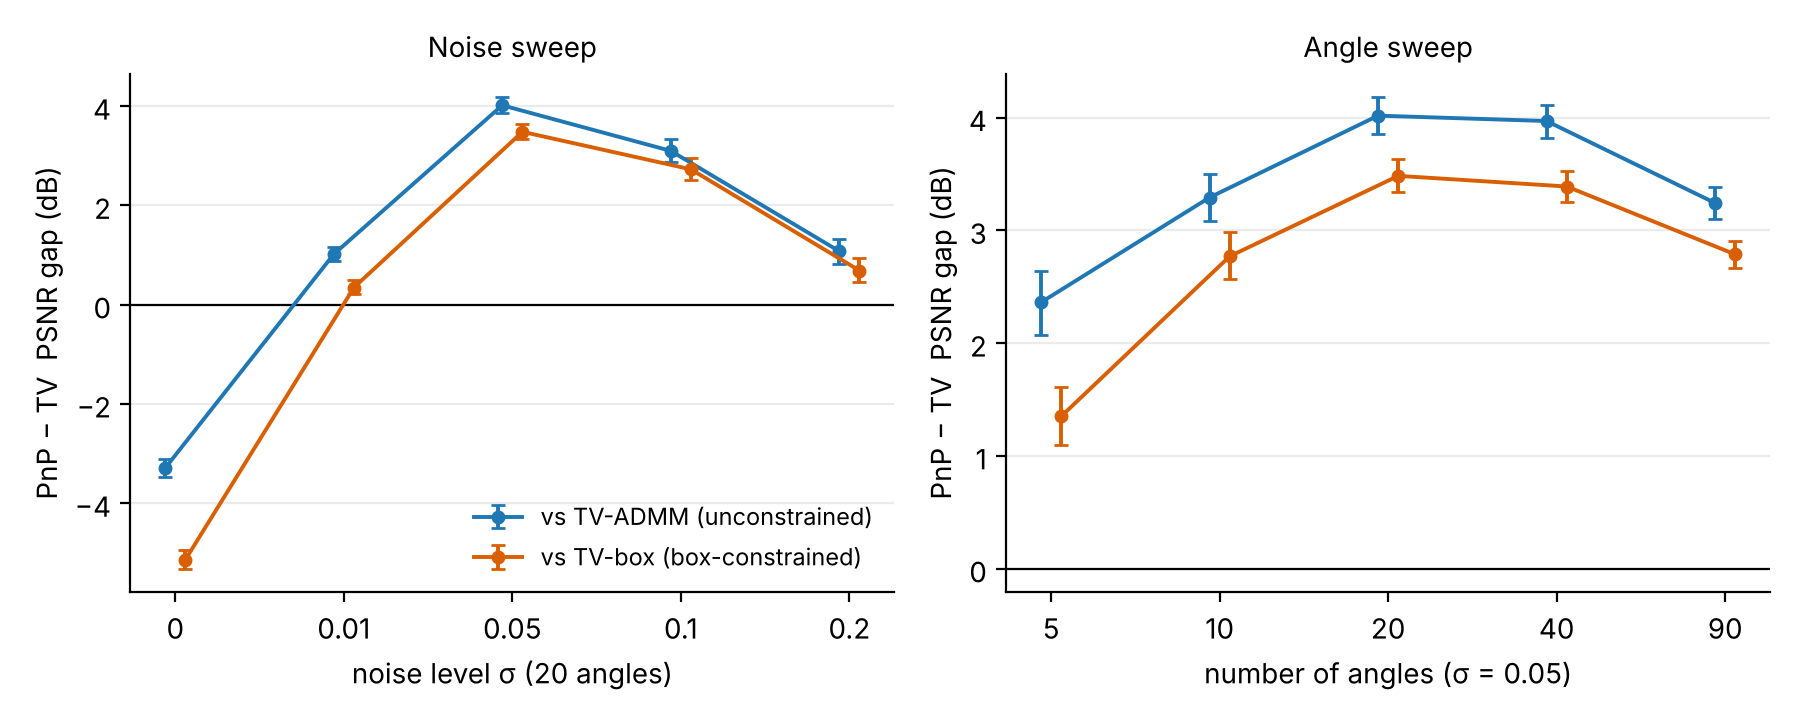
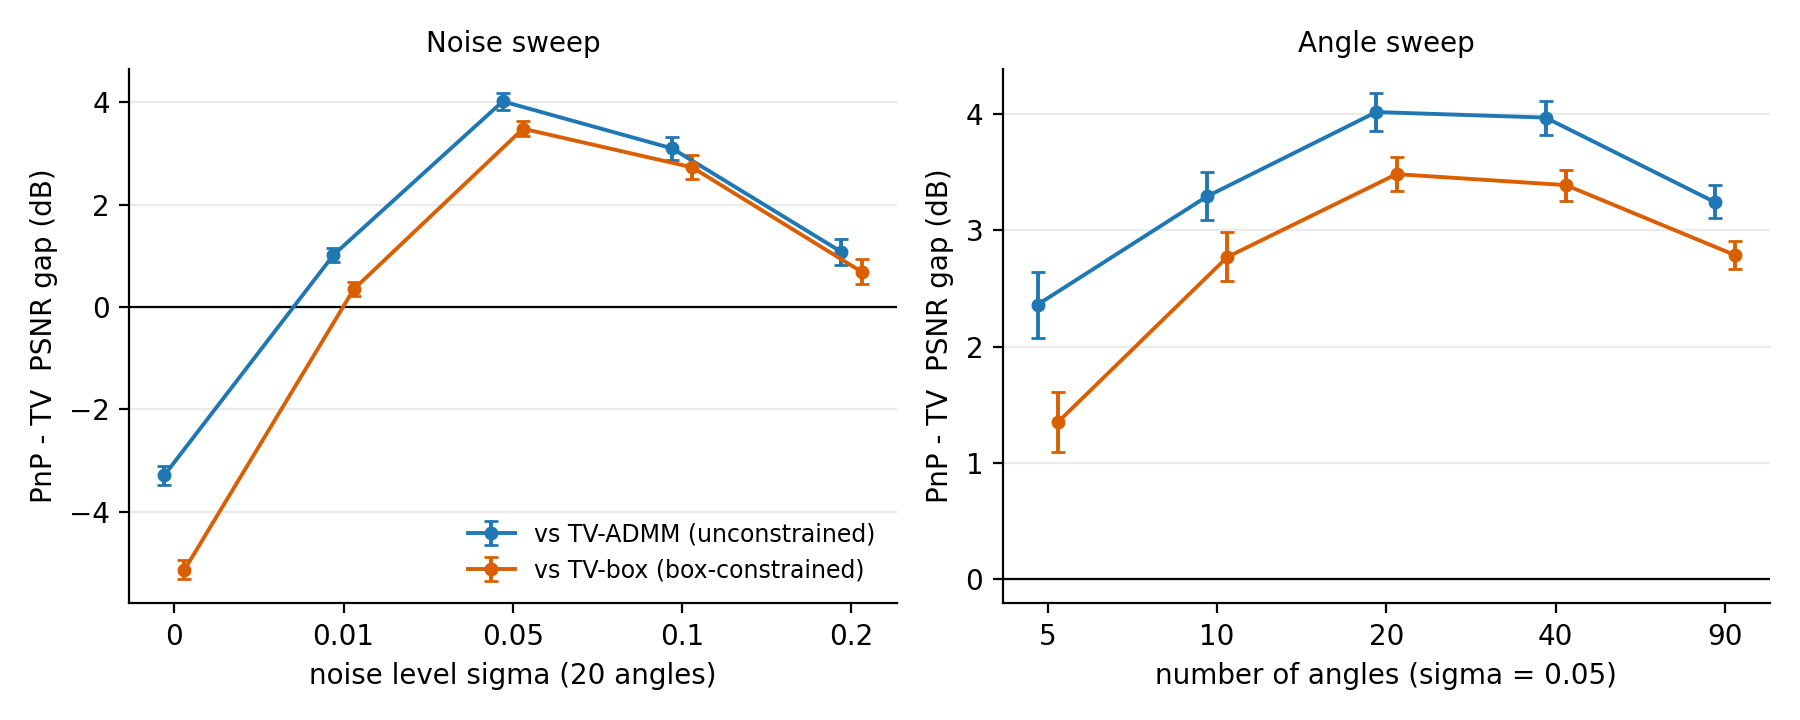
Refactor code structure for improved readability and maintainability

diff --git a/make_fig_e5_iterations.py b/make_fig_e5_iterations.py
@@ -1,0 +1,50 @@
+"""Paper figure for E5 (Fig. convergence): PnP iterates against the iteration count k (MNIST, 200 test digits).
+Reads  results/iteration_control.csv and results/spectral_bands.csv   (both written by run_spectral.py)
+Writes results/fig_e5_iterations.png
+Usage: python make_fig_e5_iterations.py [--results DIR] [--out PATH] [--dataset NAME] [--sigma_d 0.1]"""
+import argparse, os
+import pandas as pd, matplotlib
+matplotlib.use("Agg")
+import matplotlib.pyplot as plt
+
+p = argparse.ArgumentParser()
+p.add_argument("--results", default="results")
+p.add_argument("--out", default="results/fig_e5_iterations.png")
+p.add_argument("--dataset", default="MNIST (in-dist)")
+p.add_argument("--sigma_d", type=float, default=0.1, help="denoiser strength shown in the band panel and marked as tuned")
+a = p.parse_args()
+
+plt.rcParams.update({"font.size": 9.5, "axes.spines.top": False, "axes.spines.right": False})
+d = pd.read_csv(f"{a.results}/iteration_control.csv"); b = pd.read_csv(f"{a.results}/spectral_bands.csv")
+m = d[(d.dataset == a.dataset) & (d.method == "PnP-DnCNN")]
+tv = d[(d.dataset == a.dataset) & (d.method == "TV")].psnr.iloc[0]
+tuned = m[m.is_tuned]
+cols = {0.02: "#9ecae1", 0.05: "#4292c6", 0.1: "#d95f02", 0.2: "#6a3d9a"}
+
+fig, ax = plt.subplots(1, 3, figsize=(12.5, 3.8))
+for sd, c in cols.items():
+    s = m[m.sigma_d == sd].sort_values("k")
+    lw = 1.8 if sd == a.sigma_d else 1.2
+    ax[0].plot(s.k, s.psnr, "-o", ms=3.5, color=c, label=f"sigma_d={sd}", lw=lw)
+    ax[1].plot(s.k, s.resid_over_noise, "-o", ms=3.5, color=c, lw=lw)
+ax[0].axhline(tv, color="k", ls="--", lw=1); ax[0].text(300, tv + 0.15, "TV-ADMM", fontsize=8, ha="right")
+if len(tuned):
+    t = tuned.iloc[0]; ax[0].plot([t.k], [t.psnr], "o", ms=10, mfc="none", mec="k"); ax[0].text(t.k * 1.15, t.psnr + 0.28, "tuned", fontsize=8)
+ax[0].set_ylim(17, 24.8); ax[0].set_ylabel("PSNR (dB)"); ax[0].set_title("PSNR", fontsize=10)
+ax[0].legend(frameon=False, fontsize=8, loc="lower right", ncol=2)
+ax[1].axhline(1, color="k", ls=":", lw=1); ax[1].set_ylabel("||Ax_k - y|| / (sigma sqrt(m))")
+ax[1].set_title("Data residual relative to the noise norm", fontsize=10)
+
+groups = [("< 0.05 (incl. null)", ("exact null", "<0.05"), "#bdbdbd"), ("0.05-0.1", ("0.05-0.1",), "#9ecae1"),
+          ("0.1-0.2", ("0.1-0.2",), "#d95f02"), ("0.2-0.3", ("0.2-0.3",), "#e6ab02"), (">= 0.3", ("0.3-0.5", ">=0.5"), "#4d4d4d")]
+pb = b[(b.dataset == a.dataset) & (b.method == "PnP-DnCNN") & (b.sigma_d == a.sigma_d)]
+for lab, bands, c in groups:
+    s = pb[pb.band.isin(bands)].groupby("k").err.sum()
+    ax[2].plot(s.index, s.values, "-o", ms=3.5, color=c, label=lab, lw=1.6)
+ax[2].set_ylim(0, 2.9); ax[2].set_ylabel("squared error in the band")
+ax[2].set_title(f"Error by singular-value band (sigma_d={a.sigma_d:g})", fontsize=10)
+ax[2].legend(frameon=False, fontsize=7.5, title="s_i / s_1", title_fontsize=8, loc="upper center", ncol=3)
+for x in ax:
+    x.set_xscale("log"); x.set_xlabel("iteration k"); x.set_xticks([1, 2, 5, 10, 25, 50, 100, 400]); x.set_xticklabels([1, 2, 5, 10, 25, 50, 100, 400]); x.grid(alpha=0.25)
+plt.tight_layout(); os.makedirs(os.path.dirname(a.out) or ".", exist_ok=True); plt.savefig(a.out, dpi=200)
+print("saved", a.out)

diff --git a/make_fig_e1e2_gap.py b/make_fig_e1e2_gap.py
@@ -1,0 +1,36 @@
+"""Paper figure for E1-E2 (Fig. e1e2gap): PnP - TV PSNR gap against TV-ADMM and TV-box, crime-free data.
+Reads  results/control/tv_box_fine5c_summary.csv   (written by run_tv_box_control.py --data fine5c)
+Writes results/fig_e1e2_gap.png
+Usage: python make_fig_e1e2_gap.py [--csv PATH] [--out PATH]"""
+import argparse, os
+import numpy as np, pandas as pd, matplotlib
+matplotlib.use("Agg")
+import matplotlib.pyplot as plt
+
+p = argparse.ArgumentParser()
+p.add_argument("--csv", default="results/control/tv_box_fine5c_summary.csv")
+p.add_argument("--out", default="results/fig_e1e2_gap.png")
+a = p.parse_args()
+
+plt.rcParams.update({"font.size": 10, "axes.spines.top": False, "axes.spines.right": False})
+f = pd.read_csv(a.csv)
+noise = f[f.n_angles == 20].sort_values("sigma")
+ang = f[f.sigma == 0.05].sort_values("n_angles")
+fig, ax = plt.subplots(1, 2, figsize=(9, 3.6))
+
+def panel(axis, d, labels, xlabel):
+    x = np.arange(len(d))
+    for k, c, lab, o in [("TVADMM", "#1f77b4", "vs TV-ADMM (unconstrained)", -0.06),
+                         ("TVbox", "#d95f02", "vs TV-box (box-constrained)", 0.06)]:
+        y, lo, hi = d["d_PnP-" + k].values, d["lo_PnP-" + k].values, d["hi_PnP-" + k].values
+        axis.errorbar(x + o, y, yerr=[y - lo, hi - y], color=c, marker="o", ms=4, capsize=2.5, lw=1.4, label=lab)
+    axis.axhline(0, color="k", lw=0.8)
+    axis.set_xticks(x); axis.set_xticklabels(labels)
+    axis.set_xlabel(xlabel); axis.set_ylabel("PnP - TV  PSNR gap (dB)"); axis.grid(axis="y", alpha=0.25)
+
+panel(ax[0], noise, [f"{s:g}" for s in noise.sigma], "noise level sigma (20 angles)")
+panel(ax[1], ang, [str(int(k)) for k in ang.n_angles], "number of angles (sigma = 0.05)")
+ax[0].legend(frameon=False, fontsize=8.5, loc="lower right")
+ax[0].set_title("Noise sweep", fontsize=10); ax[1].set_title("Angle sweep", fontsize=10)
+plt.tight_layout(); os.makedirs(os.path.dirname(a.out) or ".", exist_ok=True); plt.savefig(a.out, dpi=200)
+print("saved", a.out)
